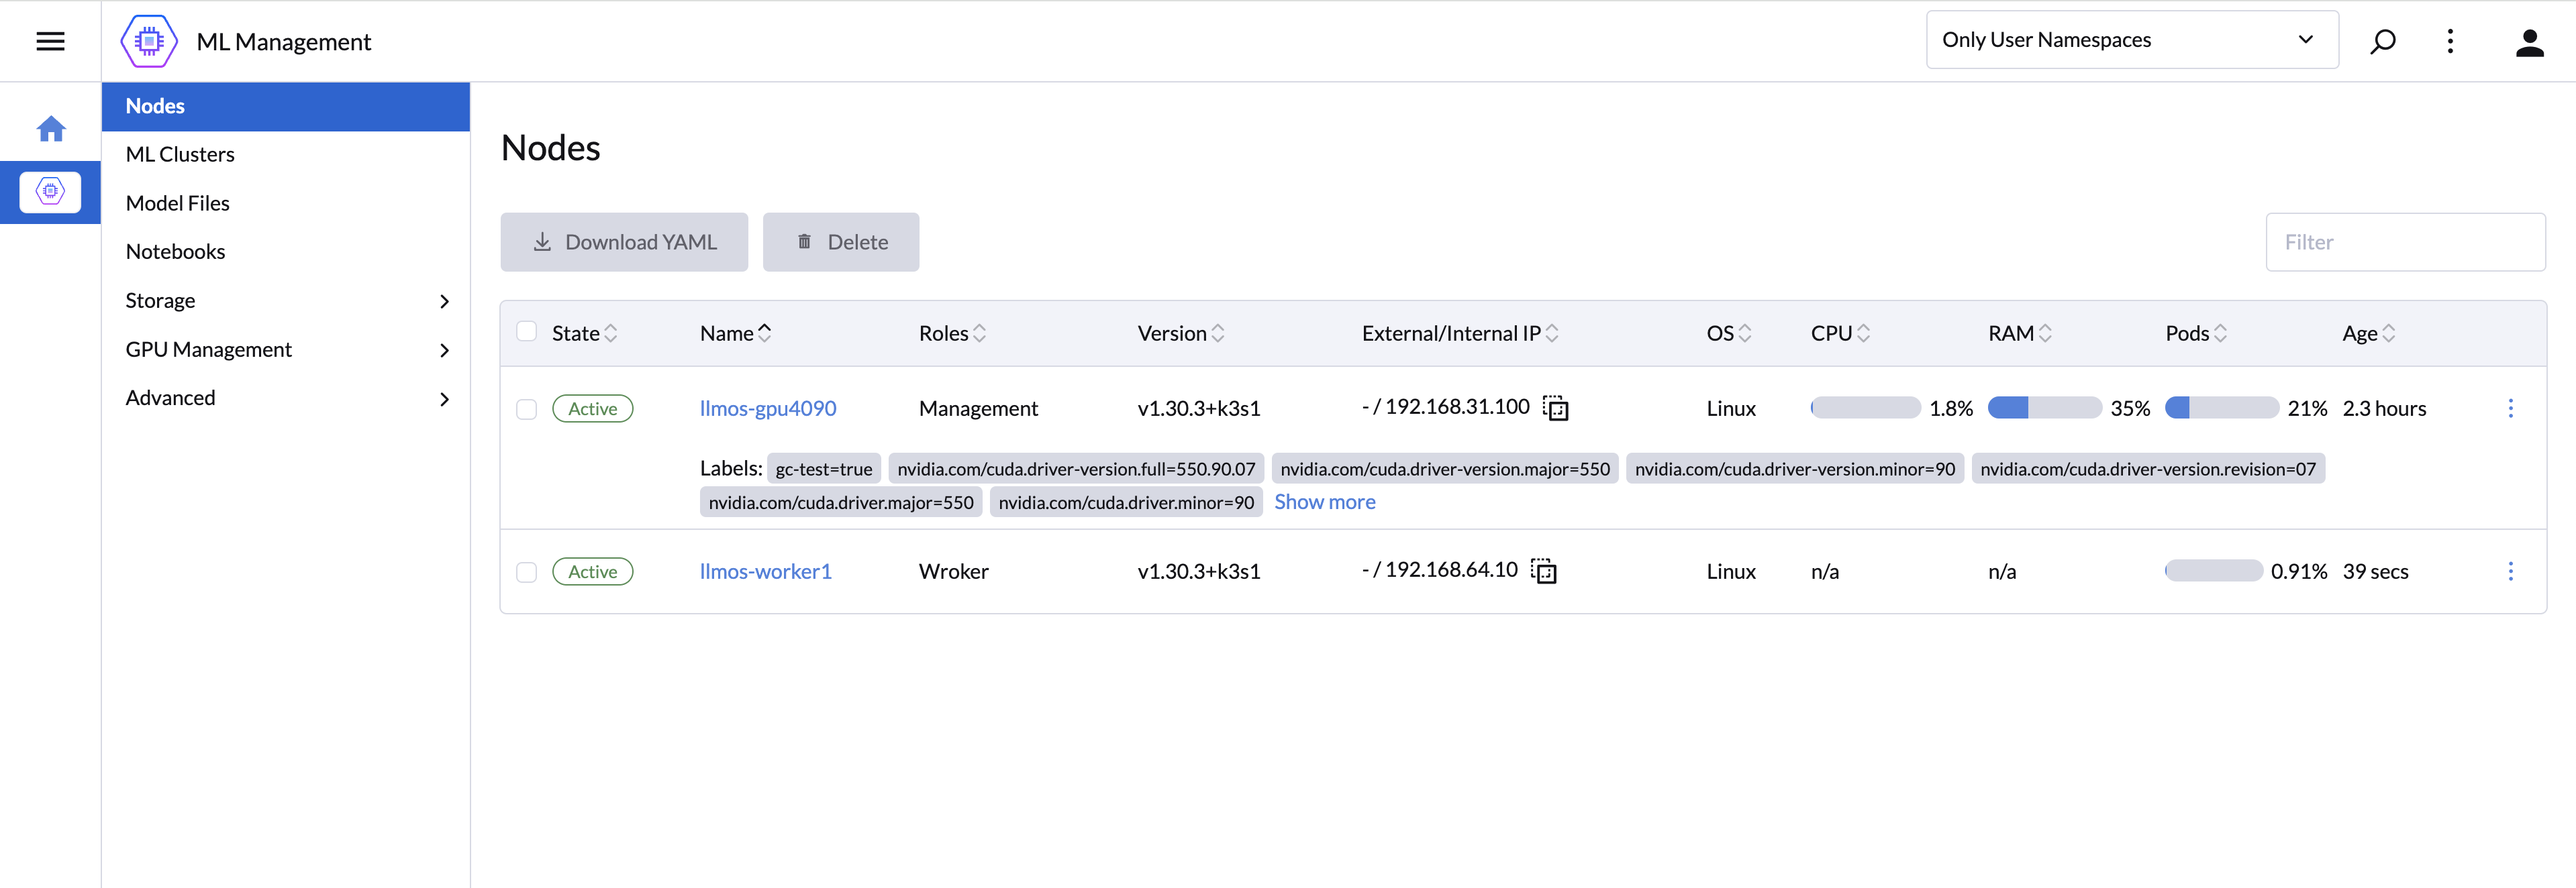
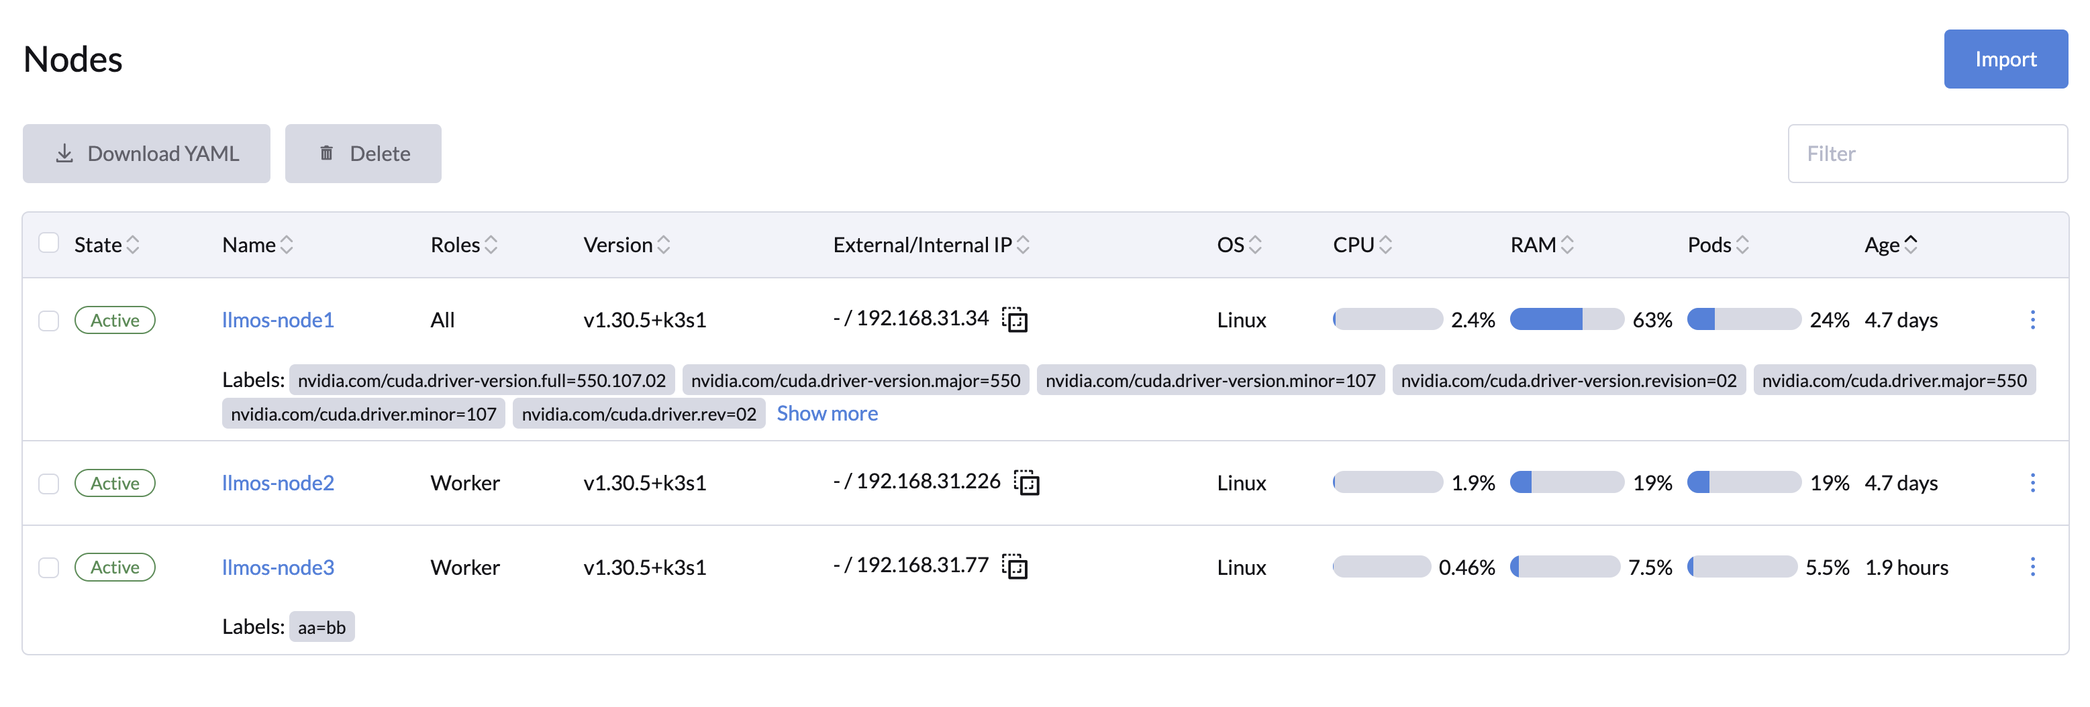
update node docs

diff --git a/docs/user_guide/nodes.md b/docs/user_guide/nodes.md
@@ -3,32 +3,43 @@ sidebar_position: 1
 title: Nodes
 ---
 
-LLMOS manages your workloads by deploying containers on your Nodes, which can be virtual or physical machines, depending on your cluster. The first node in the cluster is designated as the **management** node by default. Additional nodes can be configured as either **management** nodes or **worker** nodes.
+LLMOS node can either be a virtual or physical machines, depending on your cluster. The first node in the cluster is designated as the **cluster-init** node by default. Additional nodes can be configured as either **server** nodes or **worker** nodes.
 
-Management nodes host system components such as the API server, controller-manager, and etcd, along with user workloads. In contrast, worker nodes are primarily dedicated to running user workloads, while still handling essential system services like **DaemonSet services** and **tunnel proxy**.
+Server nodes host system components such as the API server, controller-manager, and etcd, along with user workloads. In contrast, worker nodes are primarily dedicated to running user workloads, while still handling essential system services like DaemonSet services and tunnel proxy.
 
-You can view and manage nodes in the cluster through the **LLM Management > Nodes** page.
+You can view and manage nodes in the cluster through the **LLMOS Management > Nodes** page.
 
 ![nodes](/img/docs/nodes.png)
 
 ## Fault Tolerance
 
 :::info
-LLMOS uses etcd as its database, which means that in a cluster with 3 management nodes, the system can tolerate up to 1 node failure.
+LLMOS cluster uses etcd as its database, which means that in a cluster with 3 management nodes, the system can tolerate up to 1 node failure.
 
-It’s recommended to have an odd number of management nodes in a cluster, as odd-sized clusters provide the same failure tolerance as even-sized clusters but with fewer nodes. The table below illustrates this:
+It’s recommended to have an odd number of server nodes in a cluster, as odd-sized clusters provide the same failure tolerance as even-sized clusters but with fewer nodes. The table below illustrates this:
 
 :::
 
-| Management Nodes | Majority | Failure Tolerance |
-|------------------|----------|-------------------|
-| 1                | 1        | 0                 |
-| 2                | 2        | 0                 |
-| 3                | 2        | 1                 |
+| Server Nodes | Majority | Failure Tolerance |
+|--------------|----------|-------------------|
+| 1            | 1        | 0                 |
+| 2            | 2        | 0                 |
+| 3            | 2        | 1                 |
 
 ## Adding a Node
 
-LLMOS allows you to add either a management or worker node to the cluster. For detailed instructions, please refer to the [Join a Cluster](../installation#join-a-cluster) documentation.
+LLMOS allows you to add either a server or worker node to the cluster. You can refer to the [installation configurations](../installation/configurations#full-configuration-example) for the detailed options.
+
+To add a node to the cluster from the dashboard:
+1. Go to the **LLMOS Management > Nodes** page.
+2. Click **Import** button to register a node to the cluster.
+3. Select the node role (server or worker).
+4. Optionally, you can specify the advanced options like the node name, IP address, labels, and taints through the **Show Advanced** option.
+5. Check the generated command and run it on each of the existing Linux machines you want to register.
+6. (Optional): To monitor installation logs, run `journalctl -u llmos -f` on the node.
+7. Wait for the node to be ready and it should be listed as ready on the node page.
+
+![node-import](/img/docs/node-import.png)
 
 ## Deleting a Node
 
